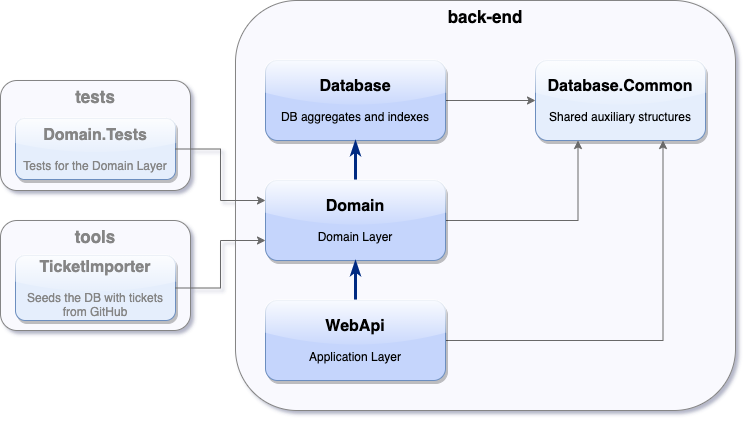
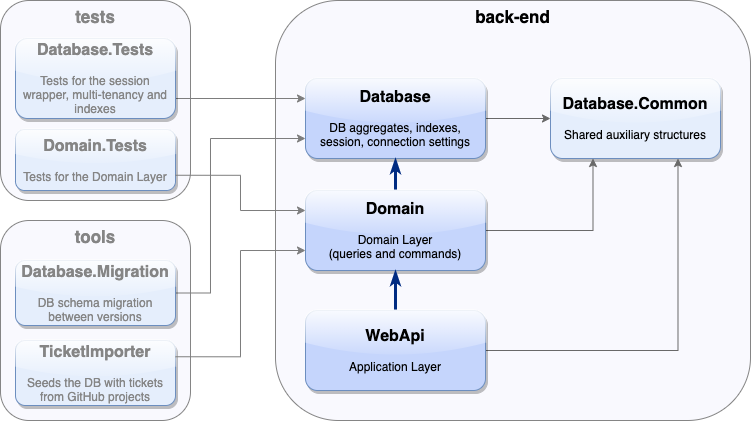
Updated solution diagram

diff --git a/back-end/README.md b/back-end/README.md
@@ -9,10 +9,12 @@ It has minimum third-party dependencies and heaps of best practices like the [Do
 
 ## Overview of the solution
 
+The main projects of the solution:
+
 | Project name    | Description                                                                                                    |
 | --------------- | -------------------------------------------------------------------------------------------------------------- |
 | Database.Common | Shared auxiliary structures used in DB models and DTOs on the WebAPI.                                          |
-| Database        | All entities and aggregates, plus DB-related settings. Note: this project is exposed only to `Domain` project. |
+| Database        | All entities and aggregates, plus DB-related settings and session. Note: this project is exposed only to `Domain` project. |
 | Domain          | All interfaces, types and logic specific to the domain layer.                                                  |
 | WebAPI          | The application layer (API).                                                                                   |
 
